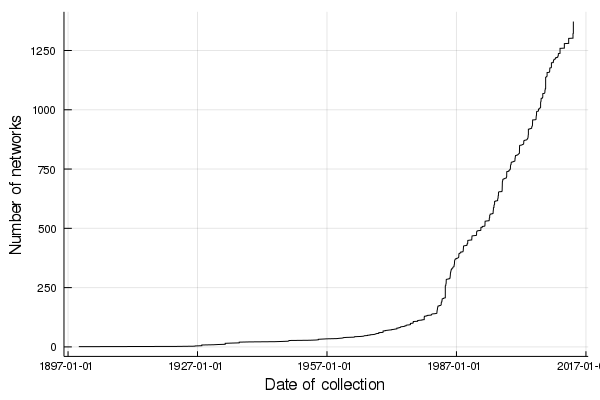
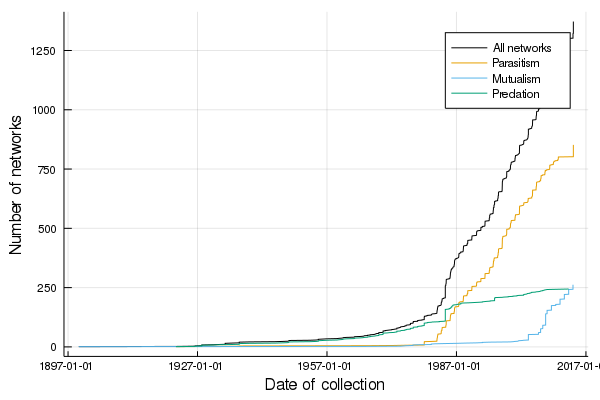
different types of networks over time

diff --git a/manuscript.md b/manuscript.md
@@ -80,7 +80,7 @@ available information, but also prioritize sampling towards these locations.
 
 ## Network coverage is accelerating but spatially biased
 
-![Cumulative number of ecological networks available in `mangal.io` as a function of the date of collection. About 1000 unique networks have been collected between 1987 and 2017, a rate of just over 30 networks a year.](figures/figure_01_a.png){#fig:temporal}
+![Cumulative number of ecological networks available in `mangal.io` as a function of the date of collection. About 1000 unique networks have been collected between 1987 and 2017, a rate of just over 30 networks a year. This temporal increase proceeds at different rates for diferent types of networks; while the description of food webs is more or less constant, the global acceleration in the dataset is due to increased interest in host-parasite interactions starting in the late 1970s, while mutualistic networks mostly started being recorded in the early 2000s.](figures/figure_01_a.png){#fig:temporal}
 
 The earliest recorded ecological networks date back to the late nineteenth
 century, with a strong increase in the rate of collection around the 1980s
@@ -115,15 +115,15 @@ in wetter climates; predation networks display less of a bias.
 
 ![List of networks across biomes](figures/figure_02.png){#fig:biomes}
 
+## Mutualistic networks are biased towards more unique environments
+
+![tk](figures/figure_05_b.png){#fig:ecc}
+
 ## Some locations on Earth have no climate analogue
 
 Climate analogue 
 
 ![tk](figures/figure_03_b.png){#fig:analog}
-
-## Mutualistic networks are biased towards more unique environments
-
-![tk](figures/figure_05_b.png){#fig:ecc}
 
 
 # Conclusions
